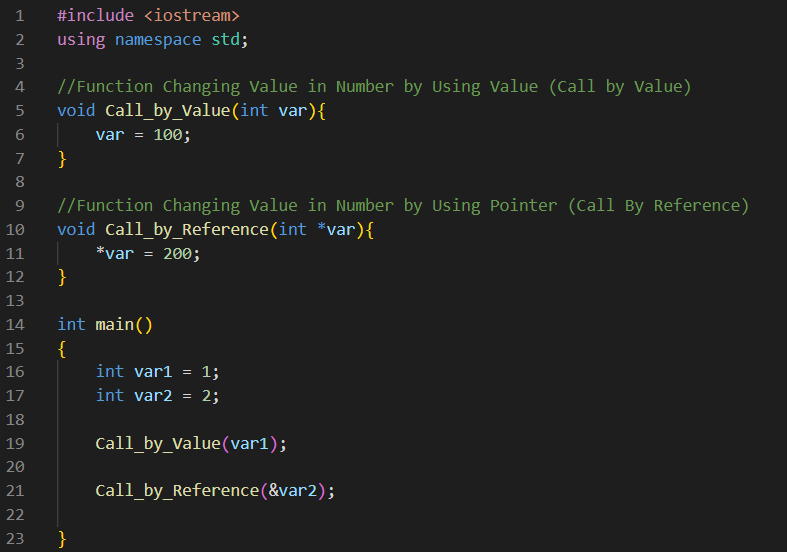
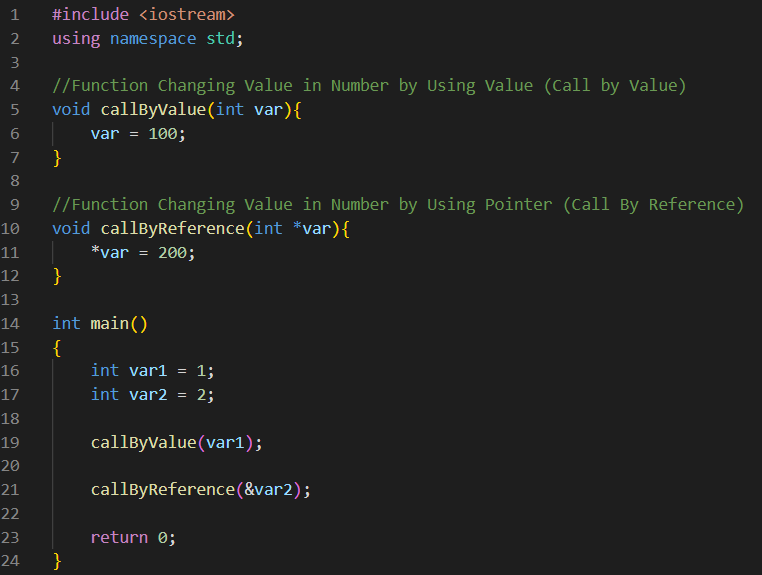
edit
add detail and change function's name

diff --git a/Lab2/Code/pointer_function.cpp b/Lab2/Code/pointer_function.cpp
@@ -2,12 +2,12 @@
 using namespace std;  
 
 //Function Changing Value in Number by Using Value (Call by Value)
-void Call_by_Value(int var){
+void callByValue(int var){
     var = 100;
 }
 
 //Function Changing Value in Number by Using Pointer (Call By Reference)
-void Call_by_Reference(int *var){
+void callByReference(int *var){
     *var = 200;
 }
 
@@ -16,9 +16,9 @@ int main()
     int var1 = 1;
     int var2 = 2;
 
-    Call_by_Value(var1);
+    callByValue(var1);
 
-    Call_by_Reference(&var2);
+    callByReference(&var2);
 
     return 0;
 }

diff --git a/Lab2/Doc/lab2_doc.md b/Lab2/Doc/lab2_doc.md
@@ -37,6 +37,16 @@
 3. variable ที่เป็น pointer ยังสามารถนำมาชี้ variable ประเภทอื่น ๆ ได้อีก เช่น float, double, char, bool หรืออาจจะชี้ pointer ด้วยกันเอง<br></br>
     <img src="../Image/part1.3.png"><br></br>
 
+4. การใช้ "*" (Asterisk) และ "&" (Ampersand) เป็นแบบ definitions/declare และแบบ expression จะมีความหมายและการใช้งานที่แตกต่างกัน โดยสามารถสรุปได้ดังตารางด้านล่างนี้ <br></br>
+<p align="center">
+
+|   | definition/declare |  expression |
+|:-:|:------------------:|:-----------:|
+| * <br> (Asterisk) | ประกาศ variable ประเภท pointer <br> Ex: int *x = NULL; | รับหรือเปลี่ยนค่าตำแหน่ง address <br> ที่ pointer x ชี้ (Dereference) <br> Ex: *x = 3; |
+| & <br> (Ampersand) | ประกาศ variable ประเภท reference <br> (ยังไม่ต้องสนใจตอนนี้)| address ของ variable <br> Ex: x = &y; |
+
+</p></br>
+
 #### Exercise 1:
     ลองสร้าง variable 1 ตัวขึ้นมาและแสดงค่าและ adress ของ variable นั้นบน terminal
     จากนั้นลองเปลี่ยนค่าของ variable ตัวนั้นและแสดงค่าและ adress ของ variable บน terminal อีกครั้ง
@@ -54,7 +64,7 @@
     <img src="../Image/part2.png"><br></br>
 
 #### Exercise 3:
-    ลองเขียน function Call_by_Value และ Call_by_Reference ตามตัวอย่างด้านบน และลองใช้งาน และแสดงผลค่าของตัวแปรเมื่อเข้า function ผ่าน terminal 
+    ลองเขียน function callByValue และ callByReference ตามตัวอย่างด้านบน และลองใช้งาน และแสดงผลค่าของตัวแปรเมื่อเข้า function ผ่าน terminal 
 
 #### Exercise 4: Call by Value
     เขียน function (function ประเภท tuple) สำหรับการสลับค่าระหว่าง 2 variables (variable ประเภท int) และ return ค่าใหม่ออกมา
